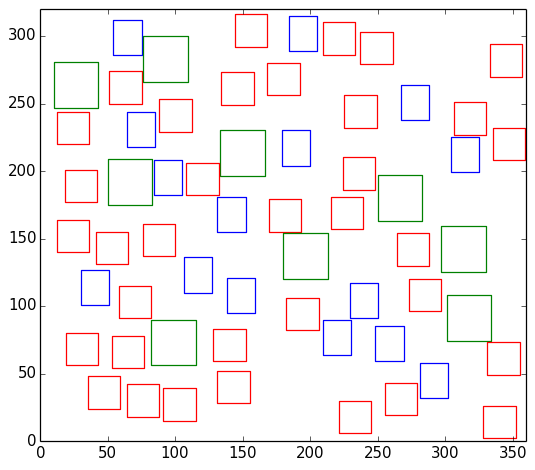
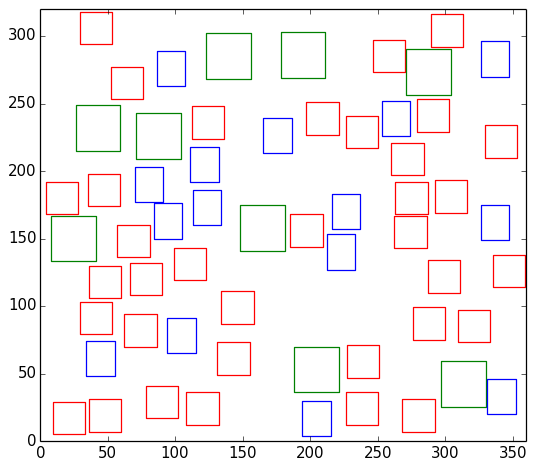
update presesntatie

Changed region(s): [[0.0598, 0.0, 0.9869, 0.9532], [0.8972, 0.0596, 0.9869, 0.1787], [0.1196, 0.9234, 0.1495, 0.9532]]

diff --git a/amstelhaegen.py b/amstelhaegen.py
@@ -110,14 +110,17 @@ if __name__ == "__main__":
 	# append first house to array 'buildings'
 	buildings.append(classes.house(canvas_x, canvas_y))
 
-	h_counter, b_counter, m_counter = 0, 0, 0
-
+	# set number of each building type
 	h_number = 0.6 * HUIZEN_AANTAL
 	b_number = 0.25 * HUIZEN_AANTAL
 	m_number = 0.15 * HUIZEN_AANTAL
 
-	while len(buildings) <= HUIZEN_AANTAL:
+    # create counters to count number of each building
+	h_counter, b_counter, m_counter = 0, 0, 0
 
+	while len(buildings) < HUIZEN_AANTAL:
+
+        # choose random building type
 		building_type = random.choice(['house', 'bungalow', 'maison'])
 
 		if building_type == 'house' and h_counter < h_number:
@@ -130,3 +133,6 @@ if __name__ == "__main__":
 			buildings, m_counter = m_build(buildings, m_counter)
 
 	fig1.savefig('rect1.png', dpi=90, bbox_inches='tight')
+
+    # delete first house from array
+	buildings.pop(0)
